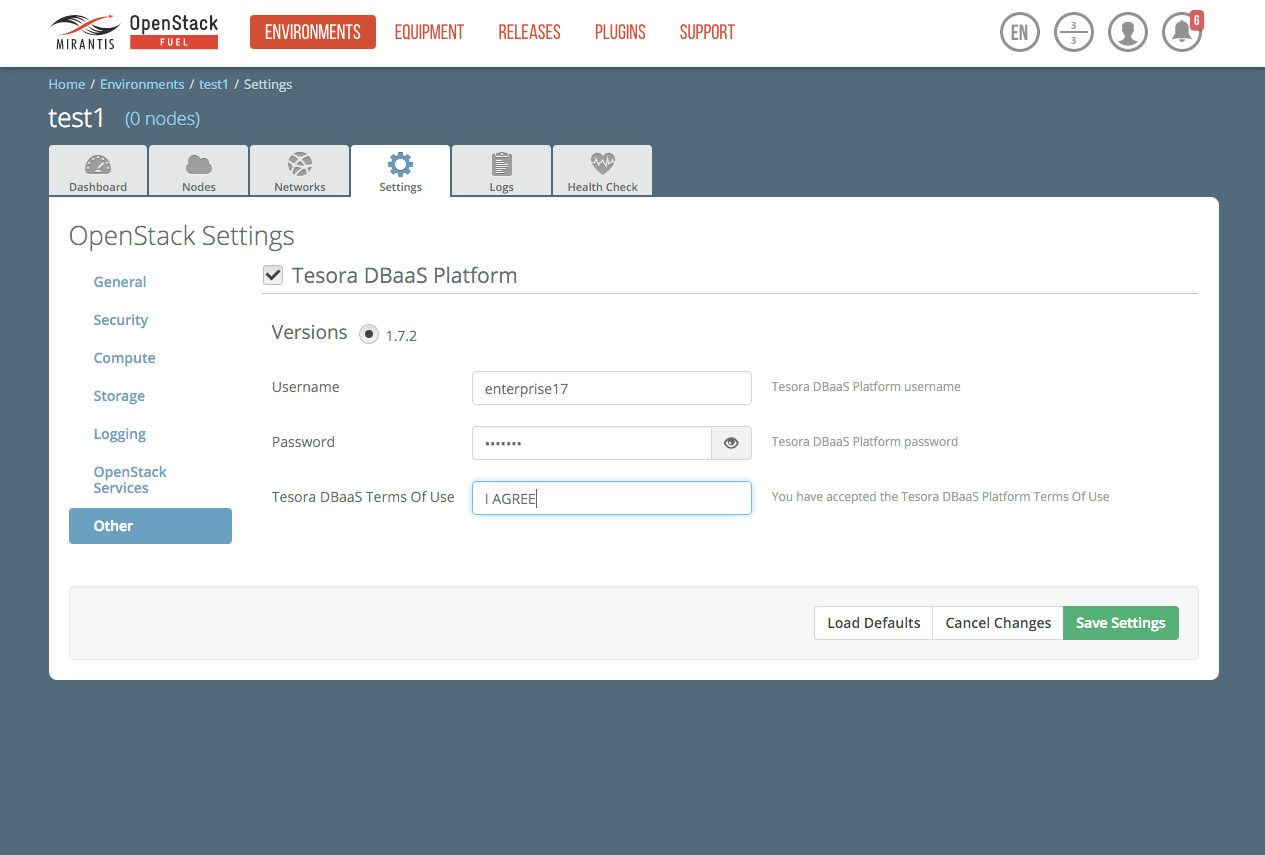
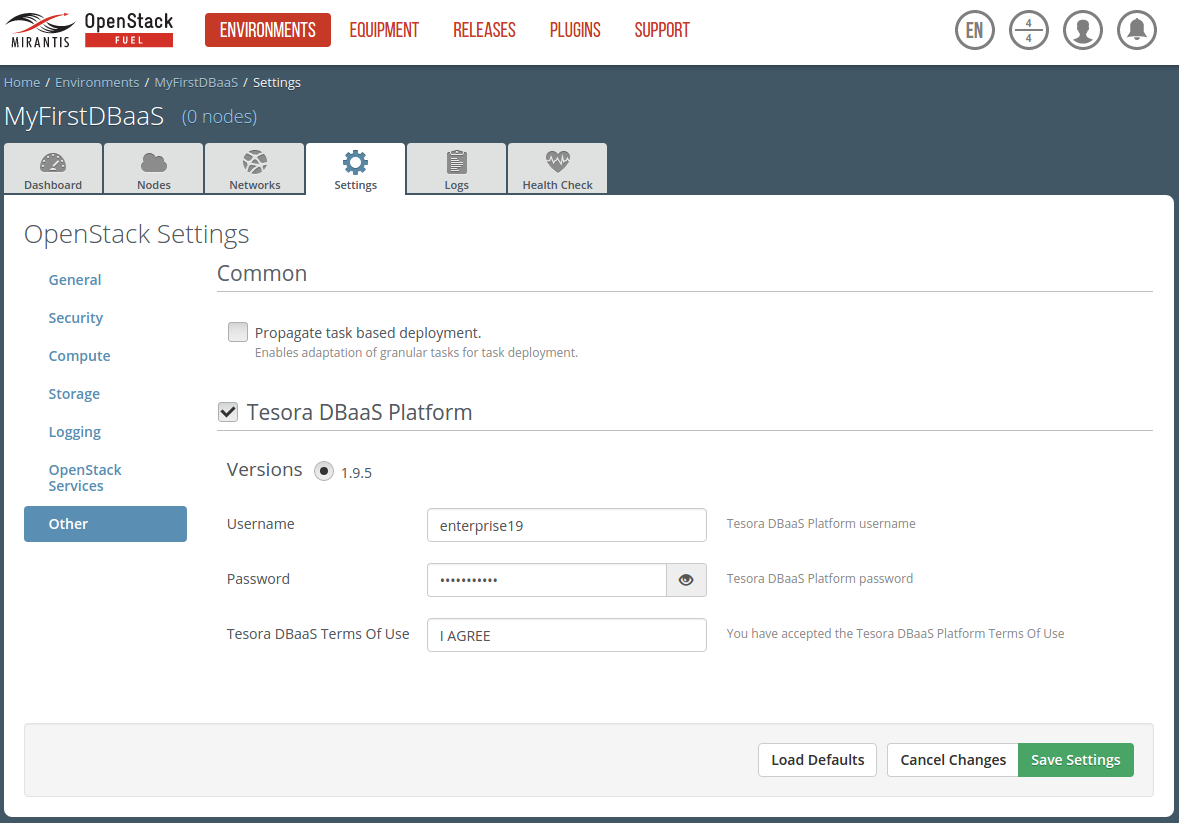
update user guide for 1.9.5
All the things for 1.9 user doc.
Update version numbers
Include new add-datastore.sh output
All new screenshots for fuel 9.0 and Tesora DBaaS

diff --git a/docs/guide/source/conf.py b/docs/guide/source/conf.py
@@ -55,9 +55,9 @@ copyright = u'2016, Tesora, Inc.'
 # built documents.
 #
 # The short X.Y version.
-version = '1.9.0'
+version = '1.9.5'
 # The full version, including alpha/beta/rc tags.
-release = '1.9-1.9.0-1'
+release = '1.9-1.9.5-1'
 
 # The language for content autogenerated by Sphinx. Refer to documentation
 # for a list of supported languages.

diff --git a/docs/guide/source/tesora-dbaas-guide.rst b/docs/guide/source/tesora-dbaas-guide.rst
@@ -34,7 +34,7 @@ Requirements
 ===============================  ===============
 Requirement                      Version/Comment
 ===============================  ===============
-Fuel                             8.0
+Fuel                             9.0
 ===============================  ===============
 
 Pre-requisites
@@ -66,21 +66,21 @@ To install the Tesora DBaaS Platform Fuel plugin, follow these steps:
 #. Copy the plugin to an already installed
    `Fuel Master node <http://docs.openstack.org/developer/fuel-docs/userdocs/fuel-install-guide/install_install_fuel.html>`_::
 
-   # scp fuel-plugin-tesora-dbaas-1.9-1.9.0-1.noarch.rpm root@:/\<fuel master node IP>:/tmp
+   # scp fuel-plugin-tesora-dbaas-1.9-1.9.5-1.noarch.rpm root@:/\<fuel master node IP>:/tmp
 
 #. Log into the Fuel Master node.
 
 #. Install the plugin::
 
      # cd /tmp
-     # fuel plugins --install fuel-plugin-tesora-dbaas-1.9-1.9.0-1.noarch.rpm
+     # fuel plugins --install fuel-plugin-tesora-dbaas-1.9-1.9.5-1.noarch.rpm
 
 #. Check if the plugin was installed successfully::
 
      # fuel plugins
      id | name                     | version | package_version
      ---|--------------------------|---------|----------------
-     1  | fuel-plugin-tesora-dbaas | 1.9.0   | 4.0.0
+     1  | fuel-plugin-tesora-dbaas | 1.9.5   | 4.0.0
 
 #. Create a new Fuel environment using the Fuel UI Wizard.
 
@@ -108,7 +108,7 @@ To install the Tesora DBaaS Platform Fuel plugin, follow these steps:
 #. Perform network validation on your new fuel environment.
 
 #. Deploy your Fuel environment containing the Tesora DBaaS Platform.
-   Once provisioned launch Horizon. You should see additional screens in Horizon for Tesora Databases:
+   Once provisioned launch Horizon. You should see additional screens in Horizon for Database:
 
    .. image:: figures/horizon-tesora.png
       :width: 75%
@@ -142,86 +142,93 @@ To install a datastore for say `mysql 5.6`, follow these steps:
    ::
 
      # ./add-datastore.sh mysql 5.6
-
-     Installing guest 'tesora-ubuntu-trusty-mysql-5.6-EE-1.9'
-
+     
+     Add datastore mysql 5.6 to Tesora DBaaS
+     
+     Selecting guest based on platform, command line args and environment variables:
+         Platform OS              ubuntu
+         Guest OS                 ubuntu
+         Tesora DBaaS Release     enterprise
+         Tesora DBaaS Version     1.9
+         Tesora DBaaS Repository  main
+     
+     Checking connectivity to Glance service
+     
+     Guest name determined as 'tesora-ubuntu-trusty-mysql-5.6-EE-1.9'
+     
+     
      Downloading guest 'tesora-ubuntu-trusty-mysql-5.6-EE-1.9.guest'
-     --2016-04-07 19:38:22--  ftp://enterprise19:*password*@ftp.tesora.com/main/ubuntu\
-     /tesora-ubuntu-trusty-mysql-5.6-EE-1.9.guest
-                => ‘/tmp/tmp.D8MAY4AlsW’
+     --2016-11-01 15:10:07--  ftp://enterprise19:*password*@ftp.tesora.com/main/ubuntu/tesora-ubuntu-trusty-mysql-5.6-EE-1.9.guest
+                => ‘/tmp/tmp.PwTR8Ov3Cs’
      Resolving ftp.tesora.com (ftp.tesora.com)... 199.182.122.232
      Connecting to ftp.tesora.com (ftp.tesora.com)|199.182.122.232|:21... connected.
      Logging in as enterprise19 ... Logged in!
      ==> SYST ... done.    ==> PWD ... done.
      ==> TYPE I ... done.  ==> CWD (1) /main/ubuntu ... done.
-     ==> SIZE tesora-ubuntu-trusty-mysql-5.6-EE-1.9.guest ... 510402560
-     ==> PASV ... done.    ==> RETR tesora-ubuntu-trusty-mysql-5.6-EE-1.9.guest ... \
-     done.
-     Length: 510402560 (487M) (unauthoritative)
-
-     100%[=============================================>] 510,402,560 4.14MB/s   in 98s
-
-     2016-04-07 19:40:00 (4.95 MB/s) - ‘/tmp/tmp.D8MAY4AlsW’ saved [510402560]
-
-     Moving guest '/tmp/tmp.D8MAY4AlsW' into guest cache
-     Uploading guest 'tesora-ubuntu-trusty-mysql-5.6-EE-1.9-86' to Glance
-     +---------------------------+------------------------------------------+
-     | Property                  | Value                                    |
-     +---------------------------+------------------------------------------+
-     | checksum                  | 1c3f5610863e30dd3d11deddd5be1eca         |
-     | container_format          | bare                                     |
-     | created_at                | 2016-04-07T19:40:05Z                     |
-     | disk_format               | qcow2                                    |
-     | id                        | dfff7c84-136e-4889-b772-e690c23c8686     |
-     | min_disk                  | 0                                        |
-     | min_ram                   | 0                                        |
-     | name                      | tesora-ubuntu-trusty-mysql-5.6-EE-1.9-86 |
-     | owner                     | 189b882e615b4ac998fc7fe7ddf25b79         |
-     | protected                 | False                                    |
-     | size                      | 510328832                                |
-     | status                    | active                                   |
-     | tags                      | []                                       |
-     | tesora-agent-build        | 130                                      |
-     | tesora-agent-full-version | 1.9.0                                    |
-     | tesora-agent-version      | 1.9                                      |
-     | tesora-database           | mysql                                    |
-     | tesora-database-version   | 5.6                                      |
-     | tesora-edition            | enterprise                               |
-     | tesora-edition-short      | EE                                       |
-     | tesora-guest-image-build  | 86                                       |
-     | tesora-os-distro          | ubuntu                                   |
-     | tesora-os-distro-version  | trusty                                   |
-     | tesora-repository         | main                                     |
-     | updated_at                | 2016-04-07T19:40:51Z                     |
-     | virtual_size              | None                                     |
-     | visibility                | public                                   |
-     +---------------------------+------------------------------------------+
-     Guest 'tesora-ubuntu-trusty-mysql-5.6-EE-1.9-86 uploaded to Glance with ID \
-     'dfff7c84-136e-4889-b772-e690c23c8686'
-
+     ==> SIZE tesora-ubuntu-trusty-mysql-5.6-EE-1.9.guest ... 502609920
+     ==> PASV ... done.    ==> RETR tesora-ubuntu-trusty-mysql-5.6-EE-1.9.guest ... done.
+     Length: 502609920 (479M) (unauthoritative)
+     
+     100%[======================================>] 502,609,920 16.9MB/s   in 27s    
+     
+     2016-11-01 15:10:34 (17.7 MB/s) - ‘/tmp/tmp.PwTR8Ov3Cs’ saved [502609920]
+     
+     
+     Moving guest '/tmp/tmp.PwTR8Ov3Cs' into guest cache
+     
+     Uploading guest 'tesora-ubuntu-trusty-mysql-5.6-EE-1.9-75' to Glance
+     [=============================>] 100%
+     +------------------------------+------------------------------------------+
+     | Property                     | Value                                    |
+     +------------------------------+------------------------------------------+
+     | checksum                     | b03598ecd8b0840c7794acae95b85471         |
+     | container_format             | bare                                     |
+     | created_at                   | 2016-11-01T15:10:31Z                     |
+     | disk_format                  | qcow2                                    |
+     | id                           | 68ceb1df-f65e-4806-a4a4-0df38445f479     |
+     | min_disk                     | 0                                        |
+     | min_ram                      | 0                                        |
+     | name                         | tesora-ubuntu-trusty-mysql-5.6-EE-1.9-75 |
+     | owner                        | 1274ced4337a4700a7b27a156c0a318b         |
+     | protected                    | False                                    |
+     | size                         | 502530048                                |
+     | status                       | active                                   |
+     | tags                         | []                                       |
+     | tesora-agent-build           | 137                                      |
+     | tesora-agent-full-version    | 1.9.4                                    |
+     | tesora-agent-version         | 1.9                                      |
+     | tesora-database              | mysql                                    |
+     | tesora-database-version      | 5.6                                      |
+     | tesora-database-version_long | 5.6.33                                   |
+     | tesora-edition               | enterprise                               |
+     | tesora-edition-short         | EE                                       |
+     | tesora-guest-image-build     | 75                                       |
+     | tesora-os-distro             | ubuntu                                   |
+     | tesora-os-distro-version     | trusty                                   |
+     | tesora-repository            | main                                     |
+     | updated_at                   | 2016-11-01T15:11:18Z                     |
+     | virtual_size                 | None                                     |
+     | visibility                   | public                                   |
+     +------------------------------+------------------------------------------+
+     
+     Guest 'tesora-ubuntu-trusty-mysql-5.6-EE-1.9-75 uploaded to Glance with ID '68ceb1df-f65e-4806-a4a4-0df38445f479'
+     
      Creating datastore 'mysql'
-     No handlers could be found for logger "oslo_config.cfg"
      Datastore 'mysql' updated.
-
-     Adding datastore version '5.6-86' to datastore 'mysql' with manager 'mysql'
-     No handlers could be found for logger "oslo_config.cfg"
-     Datastore version '5.6-86' updated.
-
-     Making '5.6-86' the default version for datastore 'mysql'
-     No handlers could be found for logger "oslo_config.cfg"
+     
+     Adding datastore version '5.6-75' to datastore 'mysql' with manager 'mysql'
+     Datastore version '5.6-75' updated.
+     
+     Making '5.6-75' the default version for datastore 'mysql'
      Datastore 'mysql' updated.
-
-     Loading validation rule file for datastore 'mysql' with version '5.6-86'.
-     No handlers could be found for logger "oslo_config.cfg"
-     Loading config parameters for datastore (mysql) version (5.6-86)
-
+     
+     Loading validation rule file '/usr/lib/python2.7/dist-packages/trove/templates/mysql/validation-rules.json'.
+     Loading config parameters for datastore (mysql) version (5.6-75)
+     
      Add datastore complete...
-
-     Guest image for mysql 5.6 uploaded to glance as:
-         Name: tesora-ubuntu-trusty-mysql-5.6-EE-1.9-86
-         ID:   dfff7c84-136e-4889-b772-e690c23c8686
-     mysql datastore created with version 5.6-86
-     Done.
+     
+     Guest image for 'mysql' '5.6' uploaded to glance as: tesora-ubuntu-trusty-mysql-5.6-EE-1.9-75
+     Datastore 'mysql' created with version '5.6-75'
 
 .. Note::
    If the download fails with a `Login incorrect` error then most likely the username or password entered in the setting screen were incorrect.
@@ -234,7 +241,7 @@ To view the installed and available datastores in horizon, follow these steps:
 
 #. Login to the Horizon console.
 
-#. Navigate to Project -> Tesora Databases -> Datastores.
+#. Navigate to Project -> Database -> Datastores.
 
 #. The table shows the installed and available datastores.
 
@@ -248,7 +255,7 @@ To create a database instance based off an available datastore, follow these ste
 
 #. Login to the Horizon console.
 
-#. Navigate to Project -> Tesora Database -> Instances.
+#. Navigate to Project -> Database -> Instances.
 
 #. Select the `Launch Instance` button.
 
